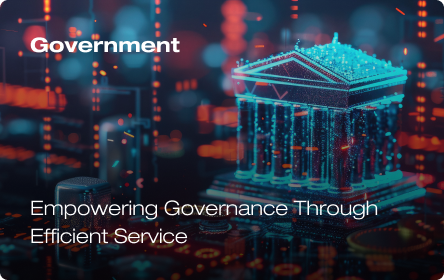
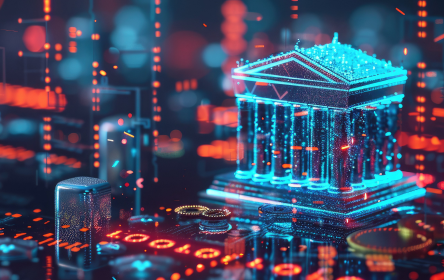
strated moving images->components

diff --git a/my-project/src/components/services.tsx b/my-project/src/components/services.tsx
@@ -1,3 +1,6 @@
+import ServiceImage from "./service_Image";
+import IndustryImage from "./industry_Image";
+
 const ServiceSection = () => {
     return (
         <main className="bg-black bg-cover flex flex-col lg:gap-y-10 2xl:gap-y-15 gap-y-10 justify-start items-center relative overflow-x-clip font-sans p-5">
@@ -9,11 +12,11 @@ const ServiceSection = () => {
                     <button className="flex text-white bg-gradient-to-r from-gray-600/50 to-gray-700/50 rounded-4xl text-sm font-extralight lg:px-8 px-2 py-2 lg:py-4 w-30 lg:w-40">LEARN MORE</button>
                 </div>
             </div>
-            <div className="flex flex-row justify-cente lg:gap-x-8 2xl:gap-x-8 gap-x-5">
-                    <img src = "/resources/DCE.png" className=" rounded-xl lg:h-94 h-85"></img>
-                    <img src = "/resources/Programming.png" className="rounded-xl lg:h-94 h-85"></img>
-                    <img src = "/resources/MDMS.png" className="rounded-xl lg:h-94 h-30"></img>
-                    <img src = "/resources/LAS.png" className="hidden lg:flex  rounded-xl lg:h-94 h-30"></img>
+            <div className="flex flex-row 2xl:justify-center lg:justify-center justify-start 2xl:pl-0 lg:pl-0 pl-220 lg:gap-x-8 2xl:gap-x-8 gap-x-0">
+                    <ServiceImage src="/resources/DCE.png" number="01" title="Digital Customer Experience" desc="Crafted with deep team expertise and powered by cutting-edge AI applications, our bespoke DCX delivers anticipatory service that consistently exceeds customer expectations." lm="LEARN MORE"/>
+                    <ServiceImage src="/resources/Programming.png" number="02" title="Software Engineering Solutions" desc="Levaraging deep team expertise alongside cutting-edge advancements, our custom software solutions anticipate and exceed user expectations with proactive service." lm="LEARN MORE"/>
+                    <ServiceImage src="/resources/MDMS.png" number="03" title="Media & Digital Marketing Solutions" desc="Levaraging comprehensive media insights and cutting-edge digital marketing advancements, our solutions anticipate trends and consistently delivery exceptional results." lm="LEARN MORE"/>
+                    <ServiceImage src="/resources/LAS.png" number="04" title="Learning as a Service" desc="Our Learning as a service (LaaS) solution significantly accelerates proficiency, enhances learner satisfaction, and boosts knowledge retention" lm="LEARN MORE"/>
             </div>
             <div className="flex lg:flex-row md:flex-row flex-col gap-x-30 2xl:w-4/10 lg:w-69/70 w-90">
                 <h1 className="lg:pr-10 lg:text-4xl text-xl font-bold 2xl:pr-10 pr-10">Industries</h1>
@@ -24,9 +27,9 @@ const ServiceSection = () => {
                 </div>
             </div>
             <div className="flex flex-row lg:justify-start 2xl:justify-center justify-start gap-x-5">
-                    <img src = "/resources/telecom.png" className=" rounded-xl lg:h-70 h-52"></img>
-                    <img src = "/resources/shopping.png" className=" rounded-xl lg:h-70 h-52"></img>
-                    <img src = "/resources/governance.png" className="hidden lg:flex rounded-xl lg:h-70 h-30"></img>
+                    <IndustryImage src="/resources/telecom.png" title="Telecommunications" desc="Leading the way of Telecommunications" lm="LEARN MORE"/>
+                    <IndustryImage src="/resources/shopping.png" title="Retail & E-Commerce" desc="Elevating Shopping Experiences" lm="LEARN MORE"/>
+                    <IndustryImage src="/resources/governance.png" title="Government" desc="Empowering Governance Through Efficient Service" lm="LEARN MORE"/>
             </div>
             <div className="flex flex-col gap-y-3 justify-start items-center 2xl:w-4/10 lg:w-69/70 w-90">
                 <div className="flex lg:flex-row 2xl:flex-row md:flex-row flex-col gap-y-2 gap-x-20 lg:gap-x-10 2xl:gap-x-20 lg:w-69/70 w-90">

diff --git a/my-project/src/components/service_Image.tsx b/my-project/src/components/service_Image.tsx
@@ -1,3 +1,29 @@
-const ServiceImage = () => {
-    
+import React from 'react'
+
+type imgProps = {
+    src : string,
+    number : string,
+    title : string,
+    desc : string,
+    lm : string
 }
+
+const ServiceImage: React.FC<imgProps> = (props:imgProps) => {
+    const hideOnMobile = props.number === '03' || props.number === '04'
+    
+  return (
+    <div className={`relative lg:h-94 h-85 2xl:w-78 lg:w-70 w-78 flex justify-start items-start overflow-hidden`}>
+        <img
+        src = {props.src}
+        className=" rounded-xl lg:h-90 2xl:h-95 h-85"
+        />
+        <p className="absolute font-sans text-5xl font-extralight text-white/60 z-0 pt-6 pl-6">{props.number}</p>
+        <div className="absolute flex flex-col 2xl:gap-4 lg:gap-0 gap-0 lg:h-94 h-85 w-76 p-7 pt-42">
+            <h1 className="text-xl tracking-widest font-bold text-white pb-0">{props.title}</h1>
+            <p className="text-xs font-extralight text-white/60">{props.desc}</p>
+            <p className="absolute text-sm font-bold text-white 2xl:bottom-3 lg:bottom-6 bottom-3">{props.lm}</p>
+        </div>
+    </div>
+  );
+}
+export default ServiceImage;

diff --git a/my-project/src/components/industry_Image.tsx b/my-project/src/components/industry_Image.tsx
@@ -1,0 +1,22 @@
+type imgProps = {
+    src : string,
+    title : string,
+    desc : string,
+    lm : string
+}
+
+const IndustryImage: React.FC<imgProps> = (props: imgProps) => {
+    const oneLine = props.title == "Retail & E-Commerce"
+    return(
+        <div className="relative lg:h-70 h-52 2xl:w-110 flex-none  lg:w-98 w-78 flex justify-start items-start overflow-hidden">
+            <img
+                src = {props.src}
+                className=" rounded-xl lg:h-70 h-52"
+            />
+            <h1 className="2xl:text-2xl lg:text-2xl text-lg font-semibold tracking-wider text-white absolute top-7 2xl:left-7 lg:left-7 left-5">{props.title}</h1>
+            <p className={`absolute 2xl:bottom-38 2xl:left-8 lg:left-8 ${oneLine ? 'lg:bottom-44 bottom-32 left-5' : 'lg:bottom-38 bottom-25 left-6'} 2xl:text-xl lg:text-xl 2xl:w-70 font-extralight text-white/60 tracking-wider`}>{props.desc}</p>
+            <p className="absolute text-sm font-bold text-white/60 2xl:bottom-3 lg:bottom-6 bottom-3 2xl:left-8 lg:left-8 left-6">{props.lm}</p>
+        </div>
+    );
+}
+export default IndustryImage;

diff --git a/my-project/src/components/subsidiary_Image.tsx b/my-project/src/components/subsidiary_Image.tsx
@@ -1,0 +1,23 @@
+type imgProps = {
+    titleSrc : string,
+    descSrc : string,
+    tagline : string,
+    desc : string,
+    lm : string
+}
+
+const SubsidiaryImage:React.FC<imgProps> = (props : imgProps) => {
+    return(
+        <div className="relative lg:h-70 h-52 2xl:w-110 flex-none  lg:w-98 w-78 flex justify-center items-center overflow-hidden">
+            <img className="rounded-sm lg:flex lg:h-100 2xl:h-120 h-90" src="/resources/grey_rectangle.png"></img>
+            <img src={props.titleSrc} className="2xl:h-0 lg:h-0 h-0"/>
+            <img src={props.descSrc} className="2xl:h-0 lg:h-0 h-0"/>
+            <div>
+                <h1 className="text-lg tracking-widest font-bold text-white pb-0">{props.tagline}</h1>
+                <p className="text-xs font-extralight text-white/60">{props.desc}</p>
+                <p className="absolute text-sm font-bold text-white 2xl:bottom-3 lg:bottom-6 bottom-3">{props.lm}</p>
+            </div>
+        </div>
+    );
+}
+export default SubsidiaryImage;
